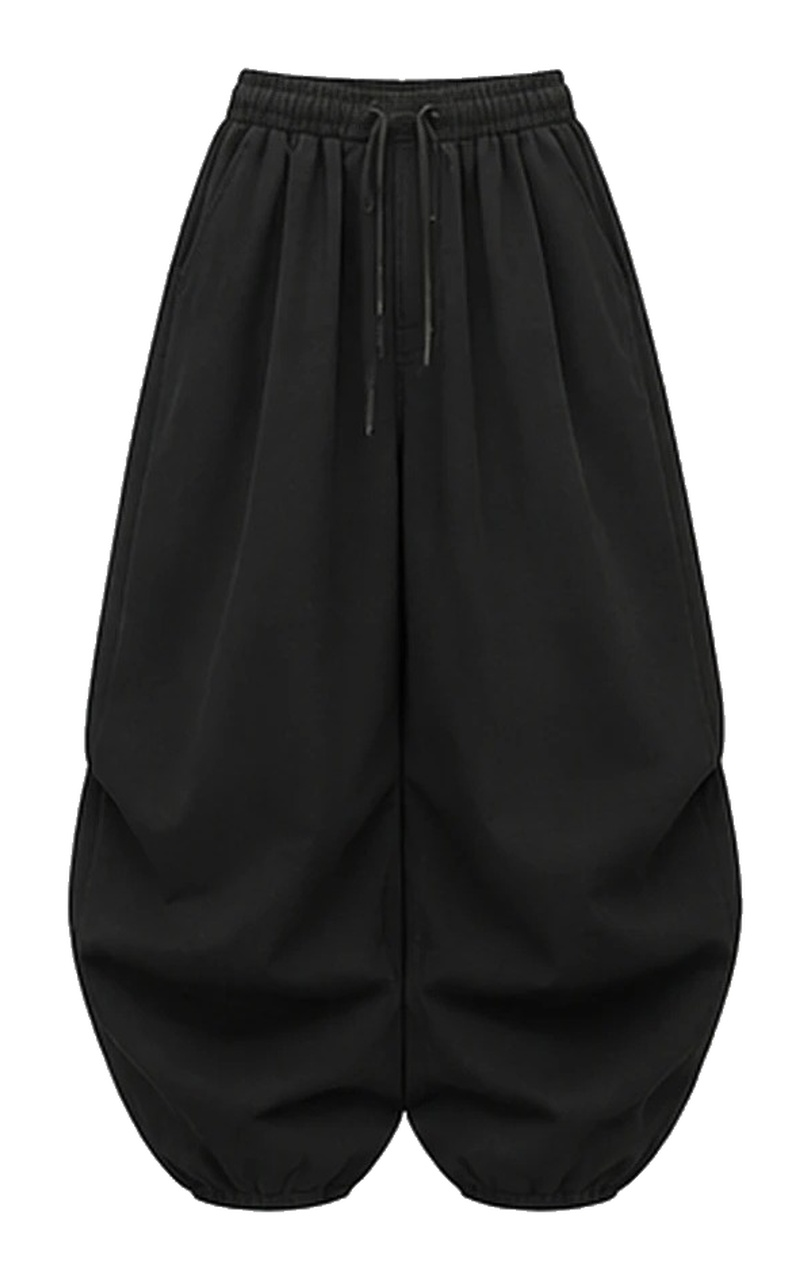
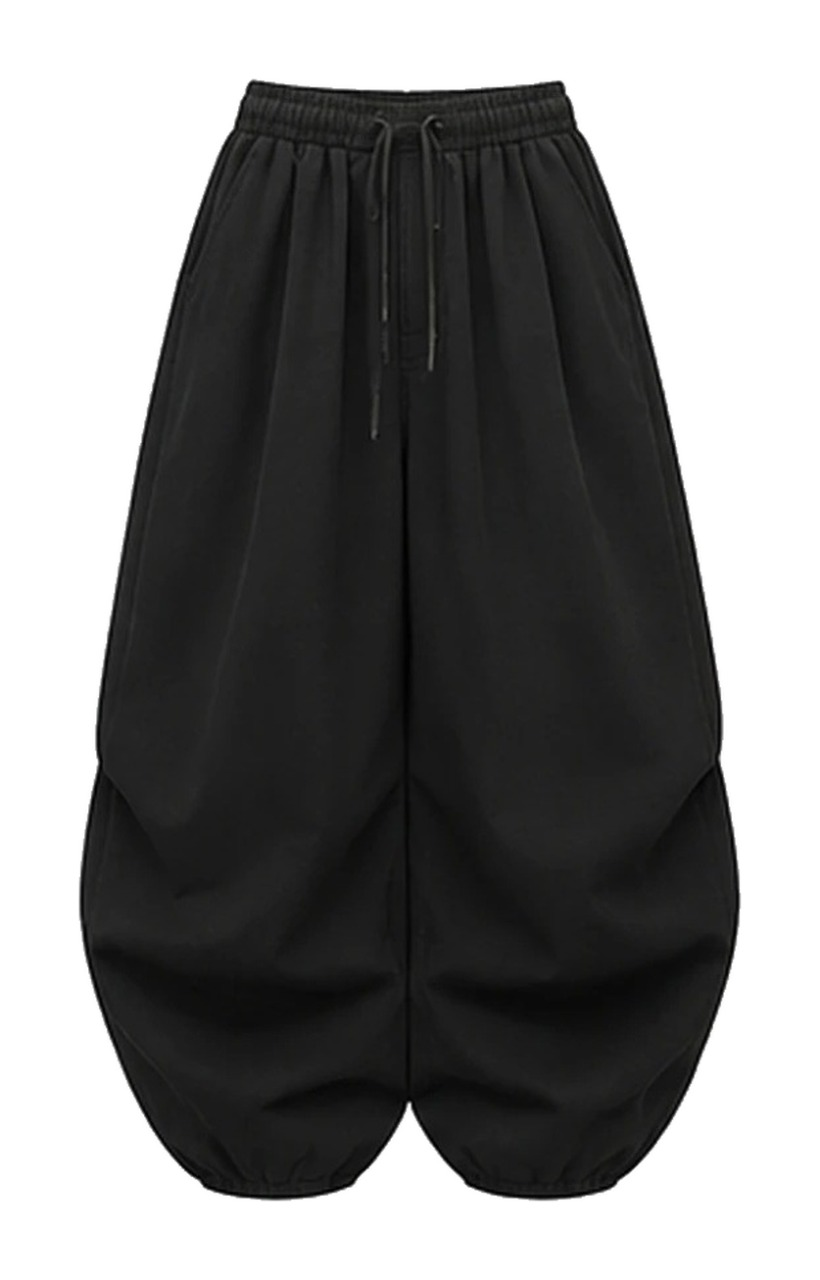
Fix cut-off product pictures (whole jersey re-cut, stray slivers removed, even margins, tote shows the drawing with full handles); photo camera: one '3초 후 촬영' button with a countdown; Why LAGI photo upscaled (4000px) (#120)
New test R20 checks the camera button, countdown and capture.

Claude-Session: https://claude.ai/code/session_015tYqeF95fcTMgYoMnwU8HY

diff --git a/src/v3/pages/Again.tsx b/src/v3/pages/Again.tsx
@@ -518,8 +518,10 @@ async function labelled(dataUrl: string): Promise<Blob> {
 function CameraCapture({ onShot, onClose, onPick }: { onShot: (b: Blob) => void; onClose: () => void; onPick: () => void }) {
   const video = useRef<HTMLVideoElement>(null);
   const [ready, setReady] = useState(false);
-  const [facing, setFacing] = useState<'user' | 'environment'>('user');
+  const facing = 'user' as const;
   const [problem, setProblem] = useState<string | null>(null);
+  // One button: press it, a 3-2-1 countdown runs on the picture, then the photo is taken.
+  const [count, setCount] = useState<number | null>(null);
   const [attempt, setAttempt] = useState(0);
   const closeRef = useRef(onClose);
   closeRef.current = onClose;
@@ -559,7 +561,18 @@ function CameraCapture({ onShot, onClose, onPick }: { onShot: (b: Blob) => void;
     };
   }, [facing, attempt]);
 
-  const mirrored = facing === 'user';
+  const mirrored = true;
+  useEffect(() => {
+    if (count === null) return;
+    if (count === 0) {
+      setCount(null);
+      shoot();
+      return;
+    }
+    const t = window.setTimeout(() => setCount((n) => (n === null ? null : n - 1)), 1000);
+    return () => window.clearTimeout(t);
+    // eslint-disable-next-line react-hooks/exhaustive-deps
+  }, [count]);
   function shoot() {
     const v = video.current;
     if (!v || !v.videoWidth) return;
@@ -602,39 +615,32 @@ function CameraCapture({ onShot, onClose, onPick }: { onShot: (b: Blob) => void;
           </div>
         </div>
       ) : (
-        <video ref={video} playsInline muted autoPlay className={`max-h-full max-w-full rounded-[var(--radius-card)] bg-[var(--c-blue)] ${mirrored ? '-scale-x-100' : ''}`} />
+        <div className="relative flex max-h-full max-w-full items-center justify-center">
+          <video ref={video} playsInline muted autoPlay className={`max-h-full max-w-full rounded-[var(--radius-card)] bg-[var(--c-blue)] ${mirrored ? '-scale-x-100' : ''}`} />
+          {count !== null && count > 0 && (
+            <span className="t-mark pointer-events-none absolute inset-0 flex items-center justify-center text-[min(28vw,200px)] font-bold text-white drop-shadow-[0_2px_12px_rgba(0,0,0,0.35)]" aria-live="assertive" data-testid="camera-count">
+              {count}
+            </span>
+          )}
+        </div>
       )}
       </div>
-      {/* Close · shutter · flip, like a phone camera */}
-      <div className="grid w-full max-w-sm grid-cols-3 items-center text-[var(--c-white)]">
-        <button type="button" className="justify-self-start rounded-full px-4 py-2.5 text-sm font-semibold hover:bg-white/10" onClick={onClose}>
+      {/* One button takes the photo (after 3 seconds, so there is time to step back); 닫기 closes the camera. */}
+      <div className="flex w-full max-w-sm flex-col items-center gap-3 text-[var(--c-white)]">
+        {!problem && (
+          <button
+            type="button"
+            className="btn w-full bg-white !min-h-[56px] text-[17px] font-bold text-[var(--c-blue)] disabled:opacity-60"
+            disabled={!ready || count !== null}
+            onClick={() => setCount(3)}
+            data-testid="camera-shoot"
+          >
+            {!ready ? '카메라 준비 중…' : count !== null ? `${count}초 후 촬영…` : '3초 후 촬영'}
+          </button>
+        )}
+        <button type="button" className="rounded-full px-4 py-2 text-sm font-semibold hover:bg-white/10" onClick={onClose}>
           닫기
         </button>
-        {!problem ? (
-          <>
-            <button
-              type="button"
-              aria-label="촬영"
-              className="justify-self-center rounded-full border-[3px] border-white p-1 transition-transform active:scale-95 disabled:opacity-40"
-              disabled={!ready}
-              onClick={shoot}
-            >
-              <span className="block h-14 w-14 rounded-full bg-white" />
-            </button>
-            <button
-              type="button"
-              aria-label="카메라 전환"
-              className="flex h-11 w-11 items-center justify-center justify-self-end rounded-full bg-white/15 hover:bg-white/25"
-              onClick={() => setFacing((f) => (f === 'user' ? 'environment' : 'user'))}
-            >
-              <svg viewBox="0 0 24 24" className="h-5 w-5" fill="none" stroke="currentColor" strokeWidth="1.8" aria-hidden="true">
-                <path d="M4 12a8 8 0 0 1 14-5.3L20 9M20 4v5h-5M20 12a8 8 0 0 1-14 5.3L4 15M4 20v-5h5" />
-              </svg>
-            </button>
-          </>
-        ) : (
-          <span />
-        )}
       </div>
     </div>,
     document.body,

diff --git a/src/v3/pages/Why.tsx b/src/v3/pages/Why.tsx
@@ -15,7 +15,7 @@ export default function Why() {
       <figure className="-mx-[var(--page-x)] overflow-hidden" data-testid="why-photo">
         <img
           src="media/why-lagi.jpg"
-          srcSet="media/why-lagi-1000.jpg 1000w, media/why-lagi.jpg 2000w"
+          srcSet="media/why-lagi-1000.jpg 1000w, media/why-lagi.jpg 2000w, media/why-lagi-4000.jpg 4000w"
           sizes="100vw"
           alt="LAGI 명함과 카드 — LOOK AGAIN, FIND ANOTHER REASON"
           className="block h-[42svh] w-full object-cover object-[50%_55%] md:h-[58svh]"
